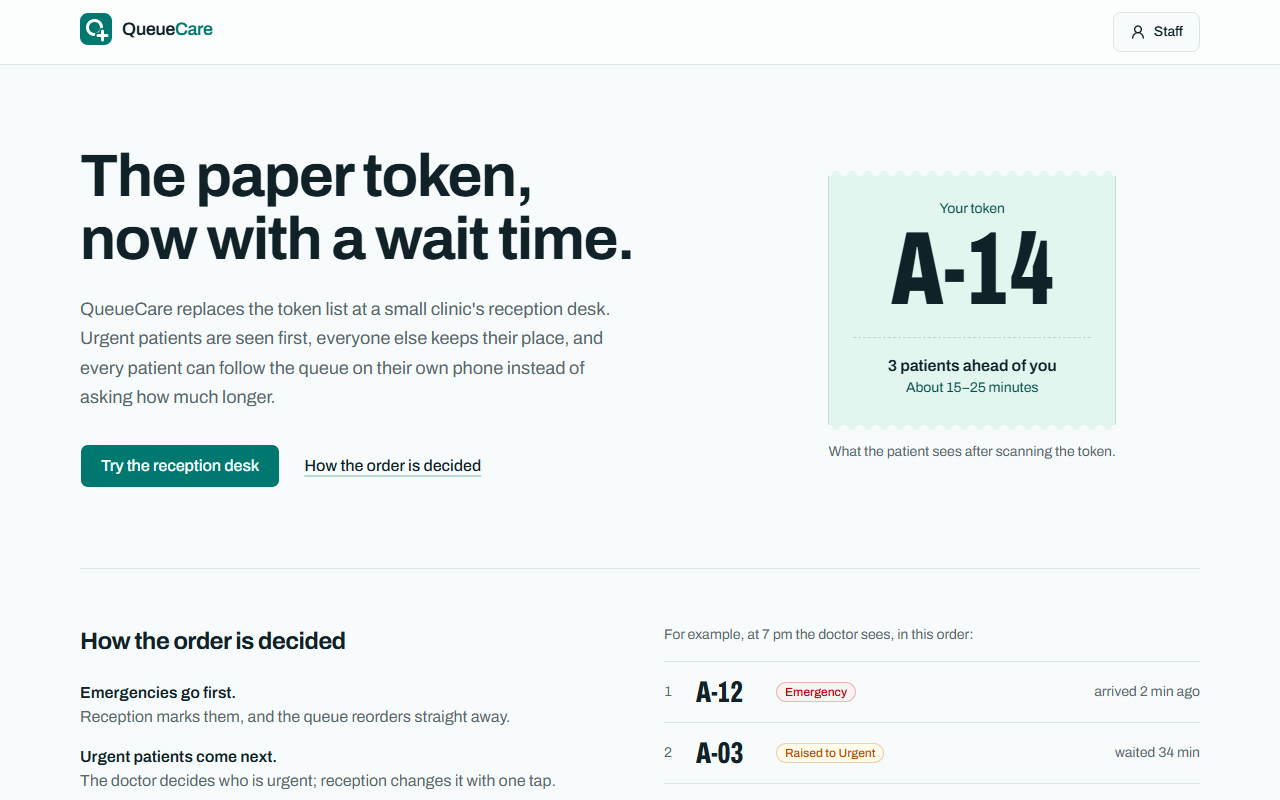
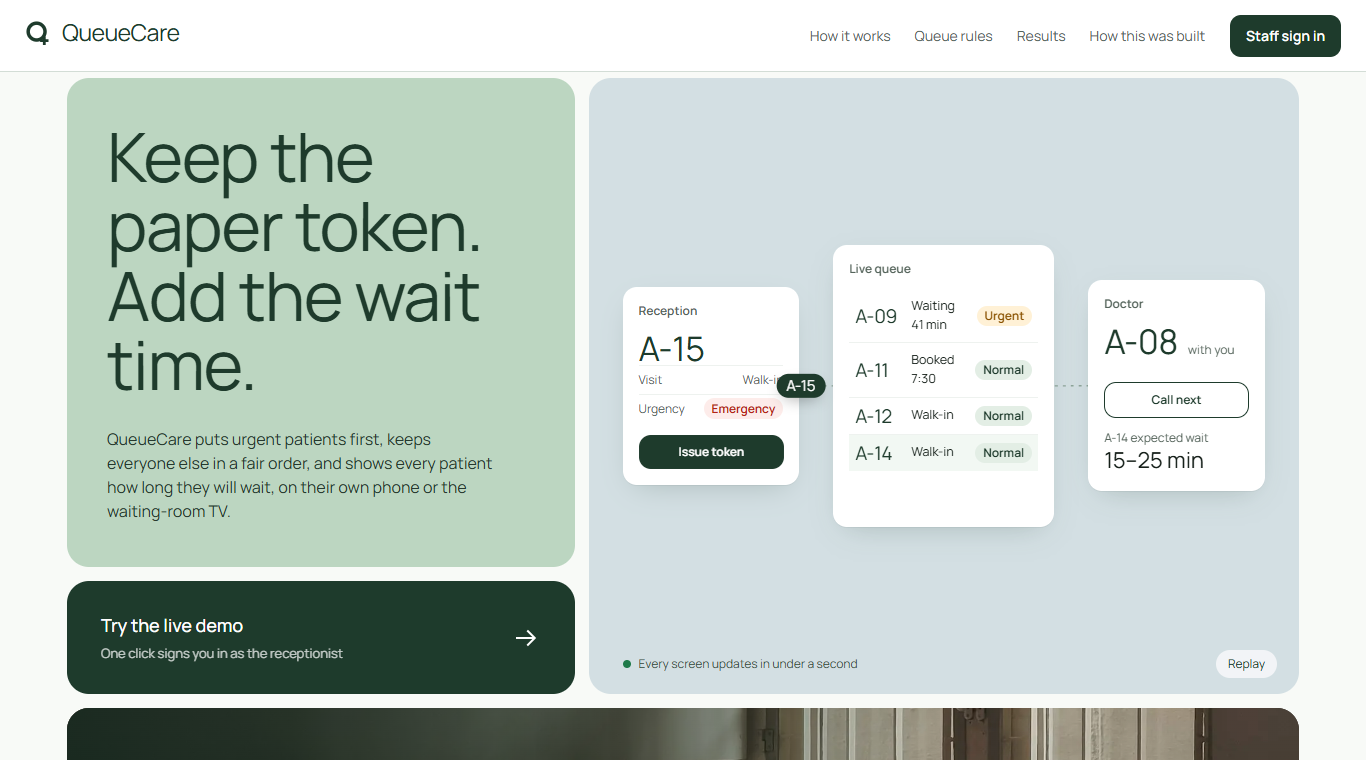
docs: v1.1 README, screenshots and test report
- README: one-click demo instructions, new features, v1.1 results, credits
- New screenshots from the live site (fictional demo names)
- Test report: v1.1 summary, live measurements, defects D-08 and D-09
- PRD status: v1.1 released

diff --git a/README.md b/README.md
@@ -6,9 +6,9 @@
 
 **Live:** [queuecare-zeta.vercel.app](https://queuecare-zeta.vercel.app) · **PRD:** [docs/PRD.md](docs/PRD.md) · **BRD:** [docs/BRD.md](docs/BRD.md) · **Tests:** [plan](docs/test-plan.md) · [report](docs/test-report.md) · **Pilot:** [plan](docs/pilot-plan.md) · **Lessons:** [lessons learned](docs/lessons-learned.md) · **Board:** [project](https://github.com/users/ahmed-malikk/projects/1)
 
-![The reception desk: a registration form, the token just issued as a slip with its QR code, and today's queue in priority order (demo data)](docs/screenshots/reception.png)
+![The reception desk: who is with the doctor, a registration form with the token just issued and its QR code, and today's queue in priority order (demo data)](docs/screenshots/reception.png)
 
-**Try it in a minute (demo data, public accounts):** open the live site, press **Staff**, then **Try as Reception** and **Sign in**. Register a patient and scan the QR code with your phone. In a second window, sign in with **Try as Doctor** and press **Call next**; the reception screen, the patient's phone and the [waiting-room display](https://queuecare-zeta.vercel.app/display) all change by themselves.
+**Try it in a minute (demo data, public accounts):** open the live site and press **Try the live demo**; one click signs you in as reception. Register a patient and scan the QR code with your phone, or use the demo strip to open the patient's phone page and the [waiting-room display](https://queuecare-zeta.vercel.app/display) in new tabs. Then press **Switch to the doctor** and call the next patient: every open screen changes by itself.
 
 | Login | Email | Password |
 |---|---|---|
@@ -22,16 +22,16 @@ I interviewed a clinic receptionist and three patients in Lahore ([findings](doc
 ## Features
 
 - **Staff sign-in with roles:** reception and the doctor each see only their own screen
-- **Register a patient in a few taps:** walk-in or booked, Normal, Urgent or Emergency; the next token is issued with a wait estimate and a QR code
-- **A fair priority queue:** urgent first, waiting time moves everyone up, bookings are kept; reception can change urgency with one tap
-- **Call next:** the doctor's one button finishes the current patient and calls the right next one
+- **Register a patient in a few taps:** walk-in or booked, Normal, Urgent or Emergency; the next token is issued with a wait estimate and a QR code, and can be **printed** as a receipt-sized slip
+- **A fair priority queue:** urgent first, waiting time moves everyone up, bookings are kept; reception changes urgency from a badge on each patient, and can **show a patient's QR code again** if they lost it
+- **Call next:** the doctor's button says exactly who it will call and who it will mark finished
 - **Live on every screen:** reception, doctor, the patient's phone and the waiting-room TV update within about a second, without refreshing
-- **The patient's page, without an app or account:** token, patients ahead and a wait range; no other patient's name is ever shown
+- **The patient's page, without an app or account:** token, patients ahead, a wait range and whether it is safe to step out (come back when 2 patients are ahead); when called, the whole screen says **Please go in now**; no other patient's name is ever shown
 - **Waiting-room display:** "Now serving" and the next three tokens in very large type, readable across the room
 
 | Doctor | Patient's phone | Waiting-room TV |
 |---|---|---|
-| ![The doctor's screen: the patient with the doctor as a token slip, a Call next button and the next patients](docs/screenshots/doctor.png) | ![A patient's status page on a phone: token A-201, 2 patients ahead, about 10–15 minutes, and the token now with the doctor](docs/screenshots/patient-phone.png) | ![The waiting-room display: now serving A-200, "Priority patient called", and the next three tokens](docs/screenshots/waiting-room.png) |
+| ![The doctor's screen: the patient with the doctor, a button that says Call A-263 and that A-264 will be marked finished, and the next patients](docs/screenshots/doctor.png) | ![A patient's status page on a phone: token A-267, 3 patients ahead, the expected wait, and advice that they can step out until 2 are ahead](docs/screenshots/patient-phone.png) | ![The waiting-room display: now serving A-264 in very large type and the next three tokens in tiles](docs/screenshots/waiting-room.png) |
 
 ## Tech stack
 
@@ -87,21 +87,22 @@ The queue is a **priority queue** ordered by three rules, applied in turn:
 
 | Decision | Why | Trade-off |
 |---|---|---|
-| Rules as pure functions in `src/lib` | Fast, exact unit tests (77) and one source of truth for every screen | The server reads the queue before deciding, so two simultaneous registrations can both count the same people ahead (only the estimate is affected; token numbers are protected by a database lock) |
+| Rules as pure functions in `src/lib` | Fast, exact unit tests (86) and one source of truth for every screen | The server reads the queue before deciding, so two simultaneous registrations can both count the same people ahead (only the estimate is affected; token numbers are protected by a database lock) |
 | Row-level security as the security boundary | A missing check in a page can't leak data; proved by a script that acts as each role (16 checks) | Rules live in SQL migrations as well as in the app |
 | Public pages read through two database functions | Patients don't sign in, and no secret key is needed in the app; the functions return only what a patient or the waiting room may see | The waiting-room order is computed in SQL too, so a check compares it with the TypeScript rules on a real mix of patients |
 | Live updates through a one-row `queue_ticks` signal | Public screens can listen without seeing any visit data; each screen re-loads through the normal permission checks | One extra round trip per change; a 30-second safety refresh covers missed messages |
 | Visits are never deleted | Estimated vs actual waits can be measured in the pilot | Test data has to be tidied (marked "missed"), not removed |
 | Server code in Vercel's Mumbai region | The database is in Mumbai; every page makes several round trips | Measured: live updates went from 0.9–2.7 s (local) to 0.8–0.9 s |
-| A look based on the paper token slip | Familiar to clinic staff and patients; readable from across a waiting room | One bold element, everything else kept plain |
+| A calm-clinic design system (v1.1): Manrope, forest and sage, motion that explains what changed | Designed and approved as a clickable prototype before any code; every screen was then built to match it | Animations are switched off for people who ask for reduced motion, and kept short so a busy receptionist never waits on them |
 
 ## How I ran it as a project
 
 - **Interviews before code:** one receptionist and three patients on 7 October 2026, then a [BRD](docs/BRD.md) (as-is and to-be processes, 27 requirements (5 business, 15 functional, 7 non-functional) with MoSCoW priorities, use cases, traceability) and a [PRD](docs/PRD.md) (user stories, success metrics, priority and estimate rules)
-- **24 issues** on a [GitHub Project board](https://github.com/users/ahmed-malikk/projects/1), one commit per issue, conventional commit messages, CI on every push
+- **38 issues** on a [GitHub Project board](https://github.com/users/ahmed-malikk/projects/1), one commit per issue, conventional commit messages, CI on every push
 - **A code review** before committing the registration feature found 7 issues, including one no test had caught (a failed registration left the previous patient's QR code on screen); all were fixed before commit
-- **Testing:** a [test plan](docs/test-plan.md) and [test report](docs/test-report.md); seven defects found and fixed, each traced to an issue
-- **Releases:** v1.0
+- **Testing:** a [test plan](docs/test-plan.md) and [test report](docs/test-report.md); nine defects found and fixed, each traced to an issue
+- **Redesign (v1.1):** a workflow review of every screen, a clickable prototype approved before building, then one issue and one commit per screen
+- **Releases:** v1.0, v1.1
 
 ## Results
 
@@ -109,11 +110,11 @@ Measured, not estimated. QueueCare has not yet been used by a real clinic, so th
 
 | What | Result |
 |---|---|
-| Unit tests | 77 / 77 pass |
+| Unit tests | 86 / 86 pass |
 | Security checks (each role, plus public functions) | 16 / 16 pass |
-| System tests, Edge, Chrome and a 375 px phone view, on the live site | 67 pass (2 skipped by design) |
-| Live update to another open screen (target: 2 s) | **0.8–0.9 s** after the change is saved, on the live site |
-| Patient page on throttled mobile data (target: 3 s) | Token visible after **0.5 s**, page fully loaded after **2.3 s** |
+| System tests, Edge, Chrome and a 375 px phone view, on the live site | 98 pass (4 skipped by design) |
+| Live update to another open screen (target: 2 s) | **0.8–1.4 s** after the change is saved, on the live site (v1.1) |
+| Patient page on throttled mobile data (target: 3 s) | Token visible after **0.5–0.7 s**, page fully loaded after **2.2–2.3 s** (v1.1) |
 | Public pages | No names and no urgency in anything the public can read |
 
 ## What I'd do next
@@ -121,7 +122,8 @@ Measured, not estimated. QueueCare has not yet been used by a real clinic, so th
 - Run the [pilot](docs/pilot-plan.md) at a small clinic and measure estimate accuracy (target: 70% of real waits inside the range)
 - Mark a called patient as missed and re-queue them ([#10](https://github.com/ahmed-malikk/QueueCare/issues/10))
 - Show estimated vs actual waits to the clinic ([#12](https://github.com/ahmed-malikk/QueueCare/issues/12)), and an optional patient account ([#11](https://github.com/ahmed-malikk/QueueCare/issues/11))
-- Print the token with its QR code, for patients who'd rather not scan a screen
+- Bring live updates back under 1 second on every browser: v1.1 measured 1.4 s in Chrome (v1.0: 0.9 s), possibly because the new header reads from the database on every refresh
+- Say "Under 5 min" consistently when an estimate starts at 0 (the token slip currently says "About 0–5 min")
 
 ## Run locally
 

diff --git a/docs/test-report.md b/docs/test-report.md
@@ -1,7 +1,50 @@
-# Test Report: QueueCare v1.0
+# Test Report: QueueCare v1.1
 
-**Author:** Ahmed Malik · **Date:** 2026-10-09 · **Build tested:** `17818fb` (local production build and the live site)
-**Related:** [Test plan](test-plan.md) · [PRD](PRD.md) · Issue [#13](https://github.com/ahmed-malikk/QueueCare/issues/13)
+**Author:** Ahmed Malik · **Date:** 2026-10-14 · **Build tested:** `0aca47a` (local production build and the live site)
+**Related:** [Test plan](test-plan.md) · [PRD](PRD.md) · Redesign issues [#18](https://github.com/ahmed-malikk/QueueCare/issues/18), [#26](https://github.com/ahmed-malikk/QueueCare/issues/26)–[#36](https://github.com/ahmed-malikk/QueueCare/issues/36)
+
+## v1.1: redesign of every screen
+
+### Summary
+
+| Level | Result |
+|---|---|
+| Unit tests (Vitest) | **86 / 86 passed** (new: UT-23 demo accounts, UT-24 step-out advice, UT-16.1 wait range) |
+| Security checks | **16 / 16 passed** |
+| System tests, local production build | **98 passed, 4 skipped by design** (ST-06.2 runs on desktop Chrome only, ST-05.3 on the phone view only) |
+| System tests, live site | **98 passed, 4 skipped by design** |
+| CI (typecheck, unit tests, build) | Passing on every push |
+
+New system tests: ST-00.2 to ST-00.7 (header for visitors and staff, one-click demo, menu links), ST-02.6 (show a patient's QR code again), ST-02.7 (the printed slip holds only the token, wait and QR code, no names), ST-03.3 (urgency menu from the keyboard), ST-05.3 (the whole phone screen says Please go in now), ST-06.3 (the waiting-room screen covers the whole window), ST-08.1 and ST-08.2 (demo shortcuts).
+
+### Non-functional results (live site)
+
+| ID | Target | Measured | Result |
+|---|---|---|---|
+| NFR-6 | Other open screens update within 2 s | **0.8 s (Edge), 1.4 s (Chrome), 1.4 s (phone view)** after the change is saved; 1.3–1.9 s after the doctor's click | Pass, but slower than v1.0 (0.8–0.9 s); see Outstanding |
+| NFR-2 | Patient page loads in under 3 s on mobile data | Three cold loads at 375 px, throttled to 1.6 Mbps down, 750 kbps up, 150 ms extra latency: token visible after **0.53–0.72 s**, page fully loaded after **2.20–2.31 s** | Pass |
+| NFR-4 | No names or medical details on public pages | ST-05.1, ST-06.1 and ST-06.2 find no names; the printed slip has no name (ST-02.7); the waiting-room screen no longer shows any reason for a call | Pass |
+| NFR-5 | Roles enforced by the database | 16 / 16 security checks | Pass |
+
+### Defects found in v1.1
+
+| ID | Defect | Severity | Found by | Fix |
+|---|---|---|---|---|
+| D-08 | If the register form was sent before the page's JavaScript loaded, the server rendered the token card and crashed on `window` | Medium | Server log during a system test run ([#37](https://github.com/ahmed-malikk/QueueCare/issues/37)); present since v1.0 | `750950c`: the QR link is built with `useOrigin()` |
+| D-09 | The waiting-room screen was squeezed into a strip about 64 px tall: the new page-enter animation made the page wrapper the frame for the screen's fixed panel | High | The product owner, reviewing the app ([#38](https://github.com/ahmed-malikk/QueueCare/issues/38)); the tests checked the text existed, not that it filled the screen | `18ca065`: the animation leaves nothing behind; full-screen pages skip it; new test ST-06.3 measures it |
+
+### Outstanding
+
+| Item | Status |
+|---|---|
+| Live updates in Chrome and on the phone view took 1.4 s (v1.0: 0.9 s) | Within the 2 s target. Possible cause, not yet confirmed: the header now reads from the database on every refresh |
+| The token slip says "About 0–5 min" where the phone says "Under 5 min" | Wording only; to be made consistent |
+| Printing on a real printer | The printed content is tested (ST-02.7); the browser's print dialog was not tested on a printer |
+| MT-01, MT-02 (real phone), Safari and Firefox | As in v1.0 below |
+
+---
+
+# v1.0 results (9 October 2026)
 
 ## 1. Summary
 

diff --git a/docs/PRD.md b/docs/PRD.md
@@ -1,6 +1,6 @@
 # PRD: QueueCare
 
-**Author:** Ahmed Malik · **Date:** 7 October 2026 · **Status:** v1.0 released 9 October 2026 (the six Must stories, US-1 to US-6; US-7 to US-9 are in the backlog) · **Related:** [BRD](BRD.md) · [interview findings](research/interview-findings.md)
+**Author:** Ahmed Malik · **Date:** 7 October 2026 · **Status:** v1.1 released 14 October 2026 (redesign of every screen, step-out advice; v1.0 on 9 October delivered the six Must stories, US-1 to US-6; US-7 to US-9 are in the backlog) · **Related:** [BRD](BRD.md) · [interview findings](research/interview-findings.md)
 
 ## 1. Problem
 
